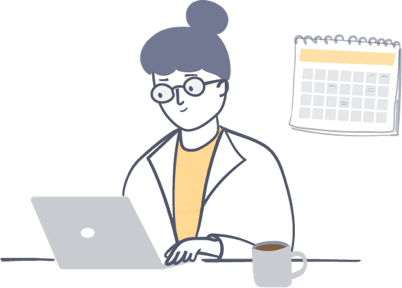
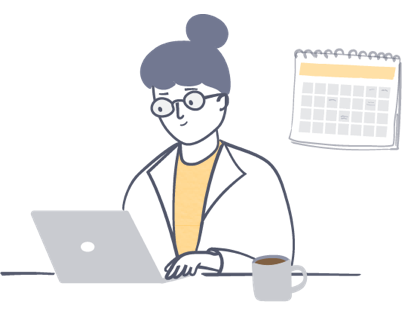
fix empty

diff --git a/src/assets/scss/components/query.scss b/src/assets/scss/components/query.scss
@@ -41,7 +41,7 @@
 
 	&__img{
 		text-align: center;
-		margin-top: 50px;
+		margin-top: 73px;
 		margin-bottom: 6px;
 	}
 }
